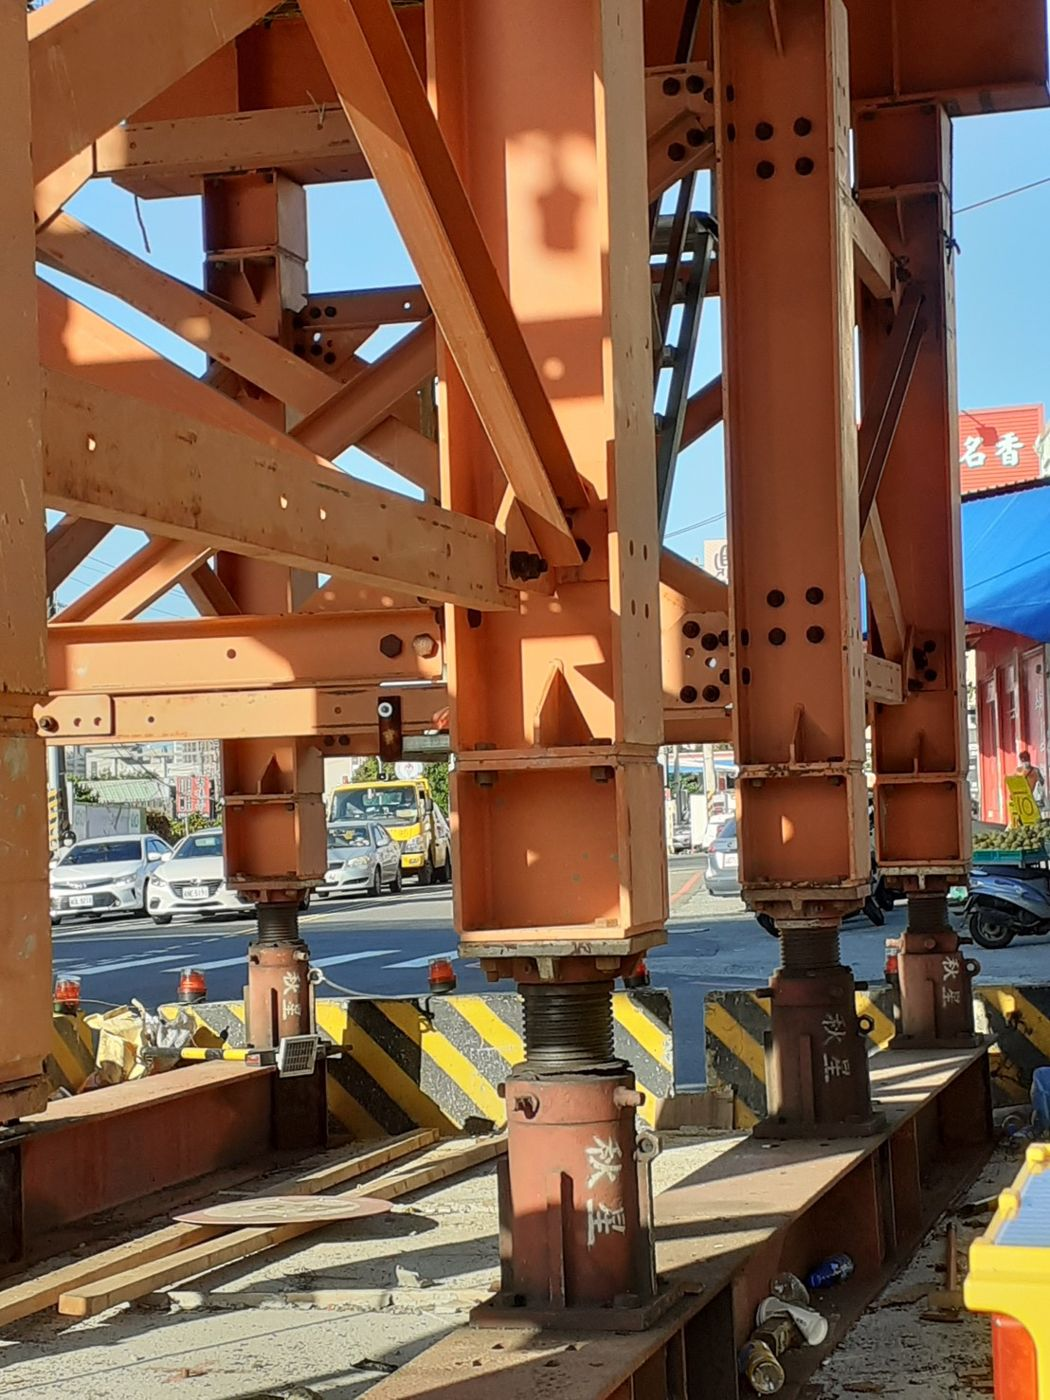
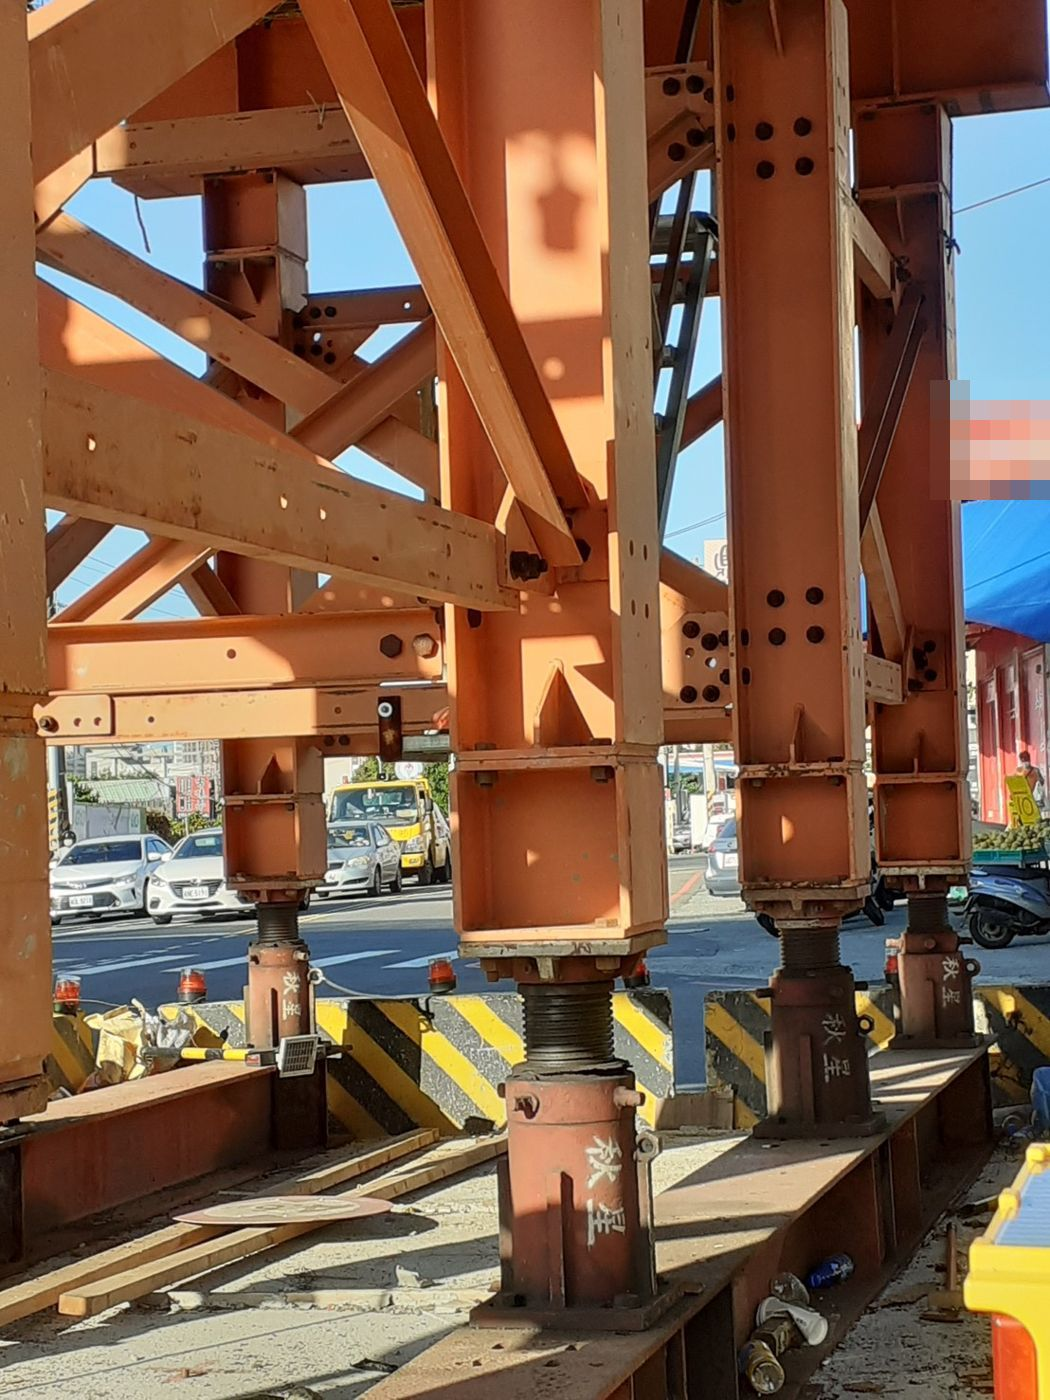
照片中其他公司名稱打馬賽克
Claude-Session: https://claude.ai/code/session_01Xkdx3nA27CKUcSW3yAqiEk

Changed region(s): [[0.8838, 0.2764, 1.0, 0.3686]]

diff --git a/CLAUDE.md b/CLAUDE.md
@@ -11,5 +11,5 @@
 - 每頁 `<title>` 與 description 都要不同，並包含該頁主要關鍵字（例：「土壓計（新型專利 M655534）｜秋星有限公司」）。
 - 客戶多為內行，內容精簡：不放詳細規格表，只寫噸數等重點，引導來電洽詢。需要表格時用 HTML 文字表格，不要用圖片；每張圖片都要有 alt。
 - 強項「製造・維修・出租」必須在首頁明顯呈現。
-- 照片上若有客戶名稱（噴字），放上網站前先裁掉或確認可公開。
+- 照片上若有其他公司名稱（客戶噴字、招牌、鋼構標記等），放上網站前一律打馬賽克或裁掉。
 - 文字保持簡短，不要放長篇制式介紹，也不要留空白欄位。
